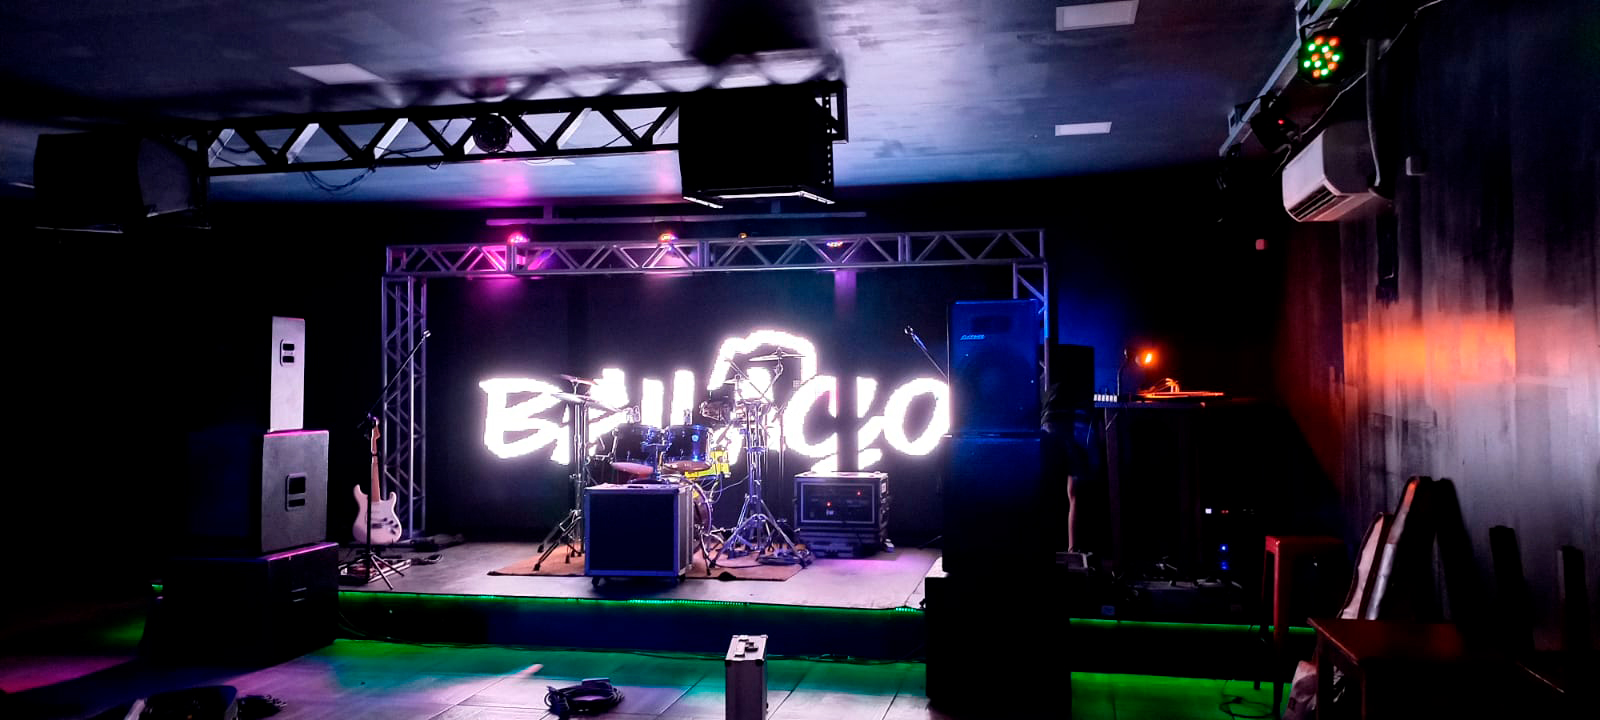
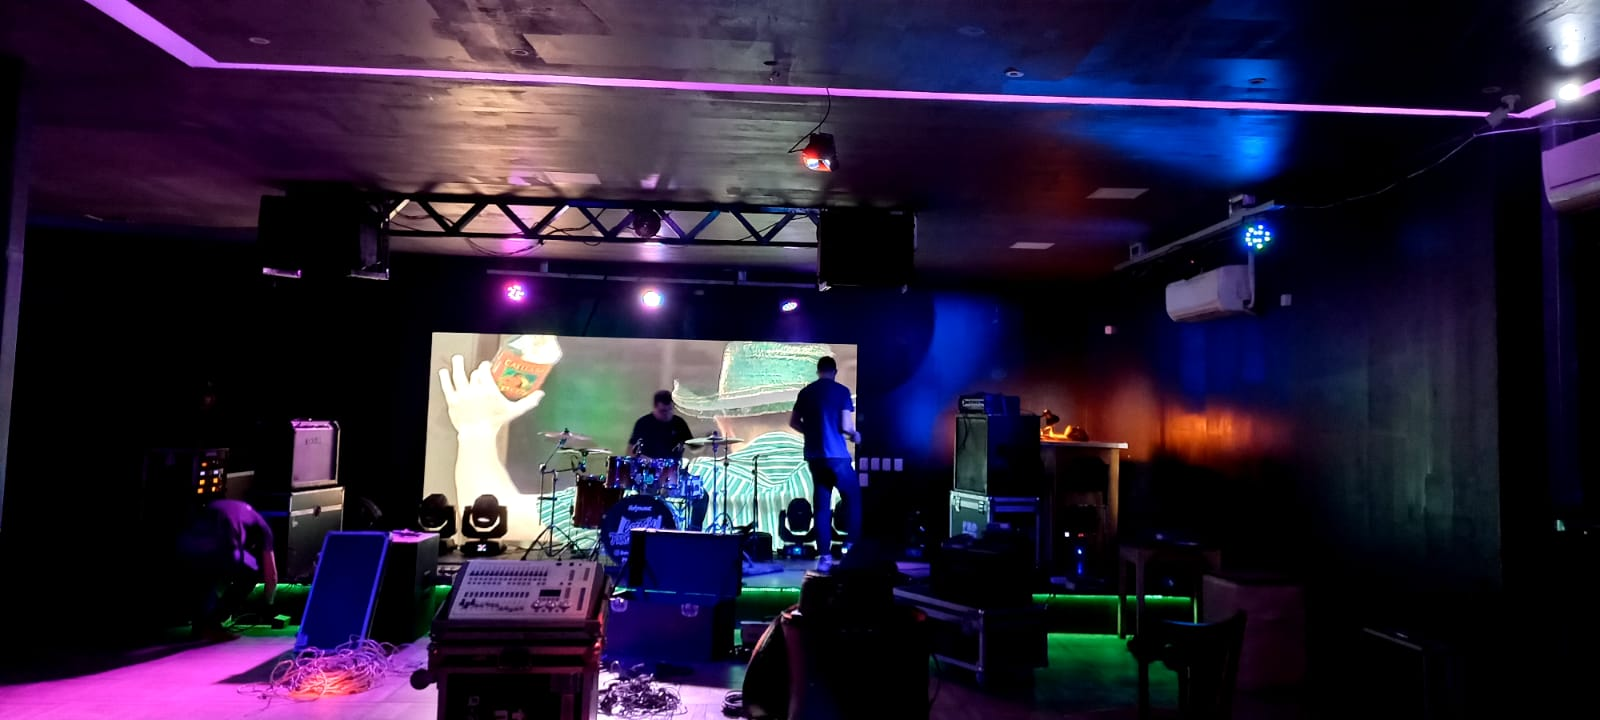
bailaço retirado

diff --git a/index.html b/index.html
@@ -89,7 +89,15 @@
     <section class="master-container">
 
       <p id="sobre-title" class="container-title">Sobre</p>
-      <div id="sobre" class="sobre div-container"></div>
+      <div id="sobre" class="sobre div-container">
+        <div class="col-video">
+          <video src="https://www.youtube.com/shorts/TQVysjkWHbs"></video>
+        </div>
+        <div class="col-info">
+
+        </div>
+
+      </div>
       <a class="btn-voltar" href="#header">Voltar</a>
 
       <p id="galeria-title" class="container-title">Galeria</p>

diff --git a/script.js b/script.js
@@ -25,7 +25,7 @@ let imagensBanner = [
 let bannerImage = document.querySelector('.banner img')
 let currentImageIndex = 0
 
-let timer = setInterval(nextImage, 3000)
+let timer = setInterval(nextImage, 5000)
 
 function nextImage(){
   currentImageIndex ++

diff --git a/banner.css b/banner.css
@@ -26,7 +26,7 @@
     left: -10px;
   }
   100% {
-    left: 0;
+    left: 0px;
   }
 }
 @media (max-width: 500px) {
